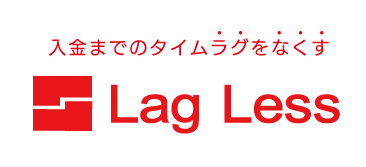
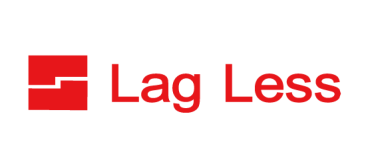
ロゴファイル周りを調整。amounts_by_timing.pngは協力会社に送信するHTMLメールから直リンクで参照するための画像。

diff --git a/public/menu.html b/public/menu.html
@@ -11,9 +11,9 @@
   <body>
     <div id="error" style="display: none; width: 100%; height: 100%; position: absolute; top: 0; left: 0; background-color: #ccc; padding-top: 30%; text-align: center;"></div>
     <div id="content" style="display: none;">
-      <div class="logo cond-lagless"><img src="images/lagless-menu.png"></div>
-      <div class="logo cond-dandori"><img src="images/dandori.png"></div>
-      <div class="logo cond-renove"><img src="images/renove.png"></div>
+      <div class="logo cond-lagless"><img src="images/lagless-v2.png"></div>
+      <div class="logo cond-dandori"><img src="images/dandori-v2.png"></div>
+      <div class="logo cond-renove"><img src="images/renove-v2.png"></div>
 
       <div style="text-align: center;">
         <span class="工務店正式名称"></span>様の<br />
